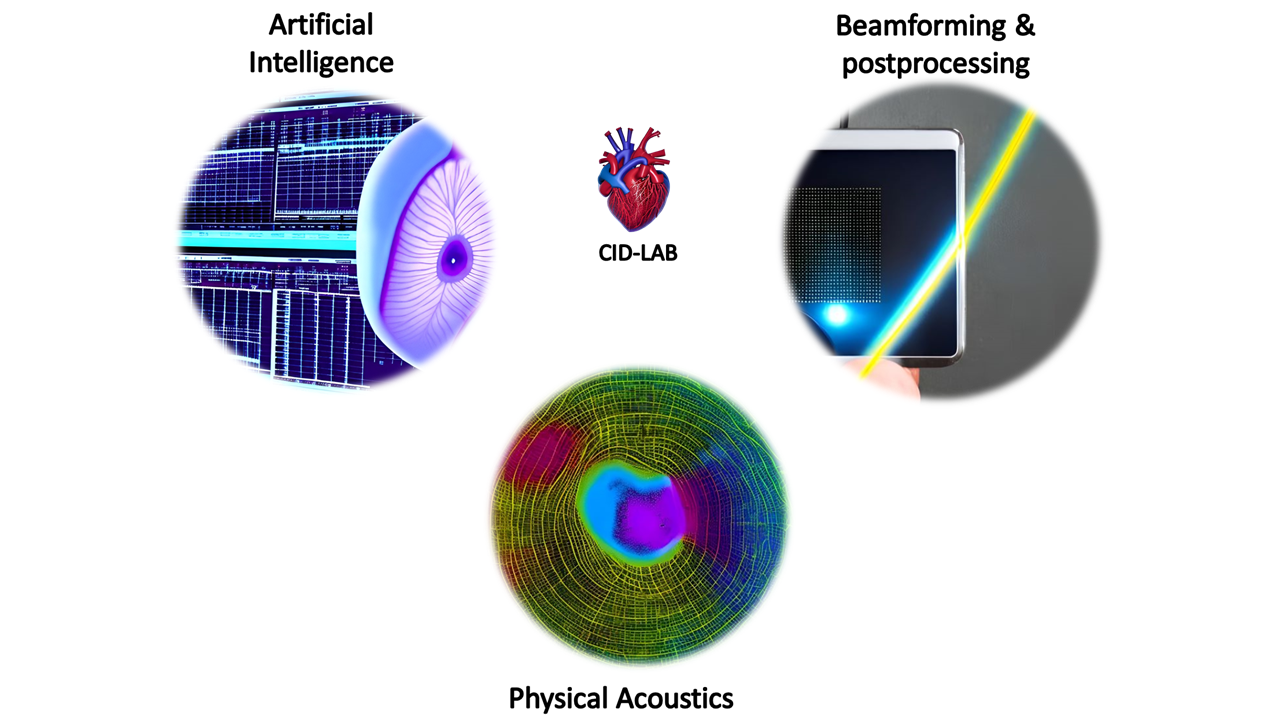
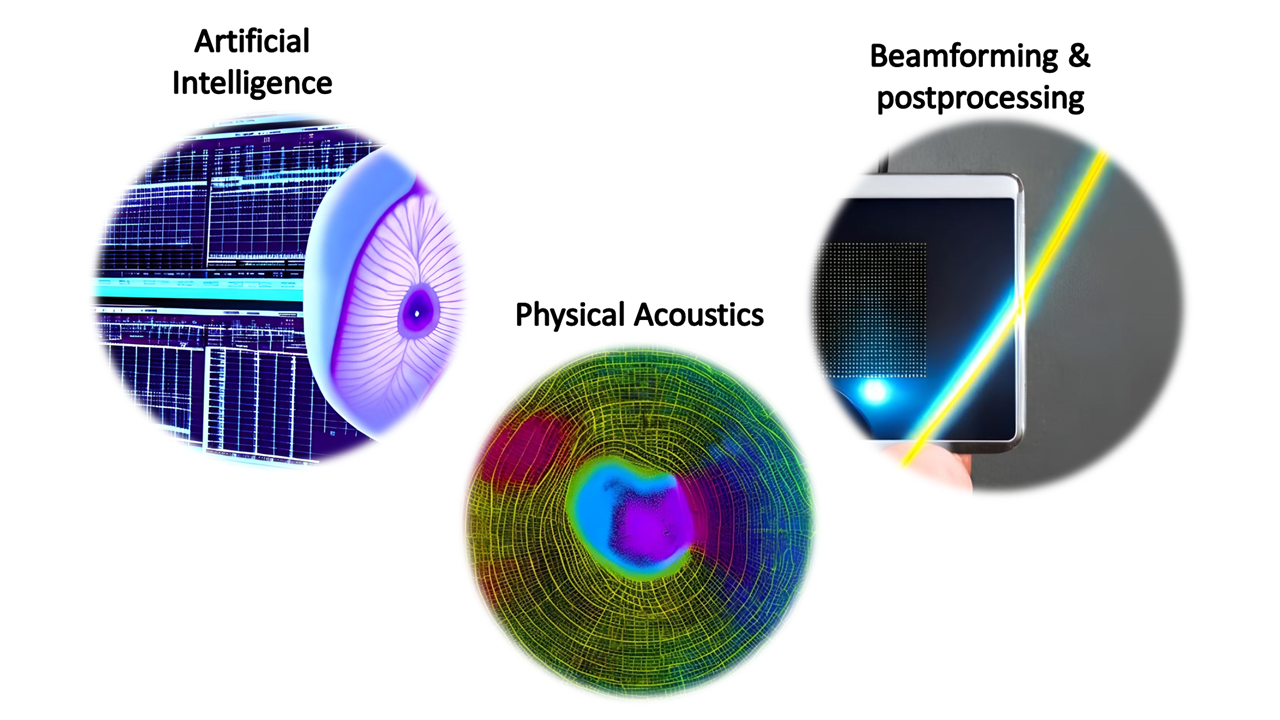
fixing image layout

diff --git a/content/home/welcome.md b/content/home/welcome.md
@@ -28,8 +28,7 @@ design:
 
 
 
-<strong> What we do! </strong>
+<strong> What we do </strong>
 <br>
 
 --
-hero_media: whatWeDo.png
